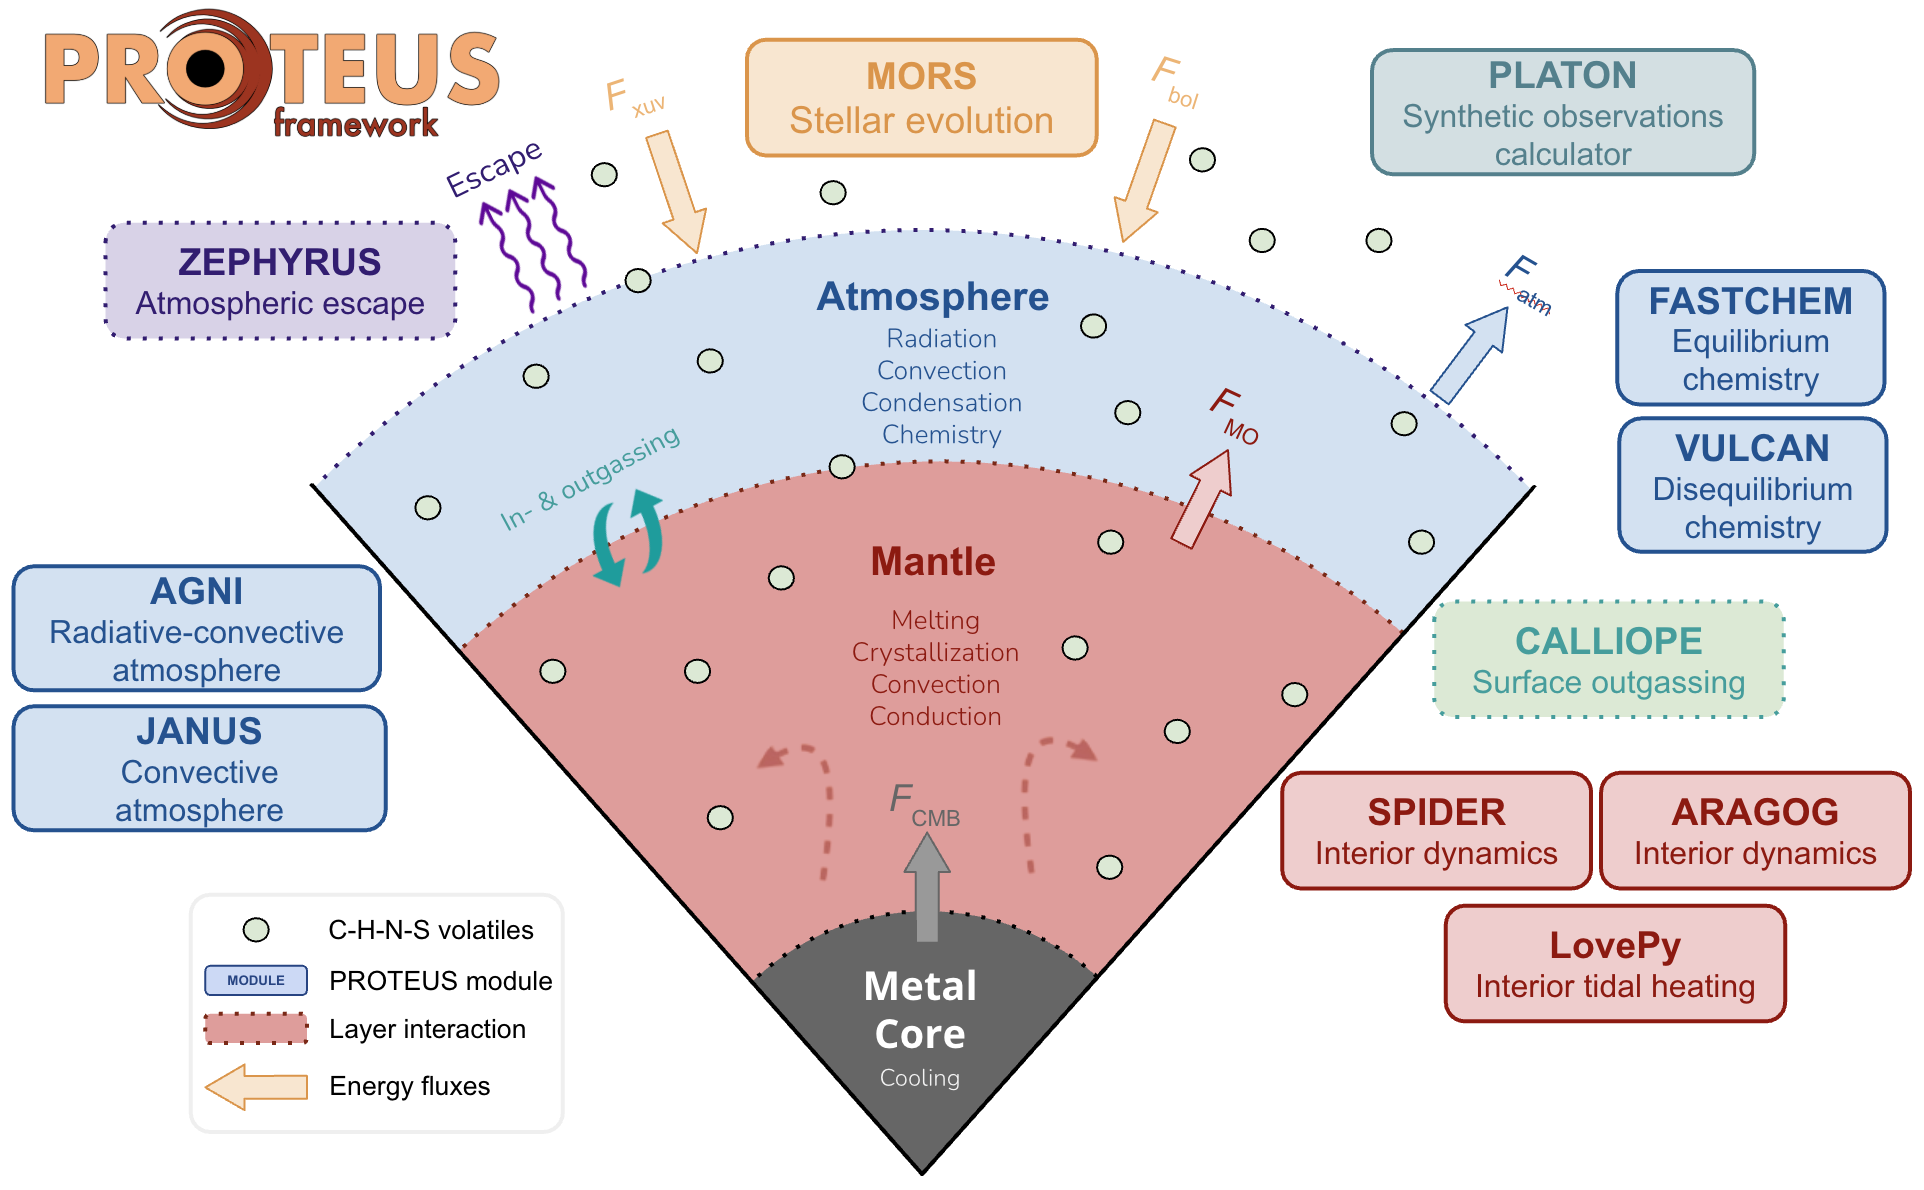
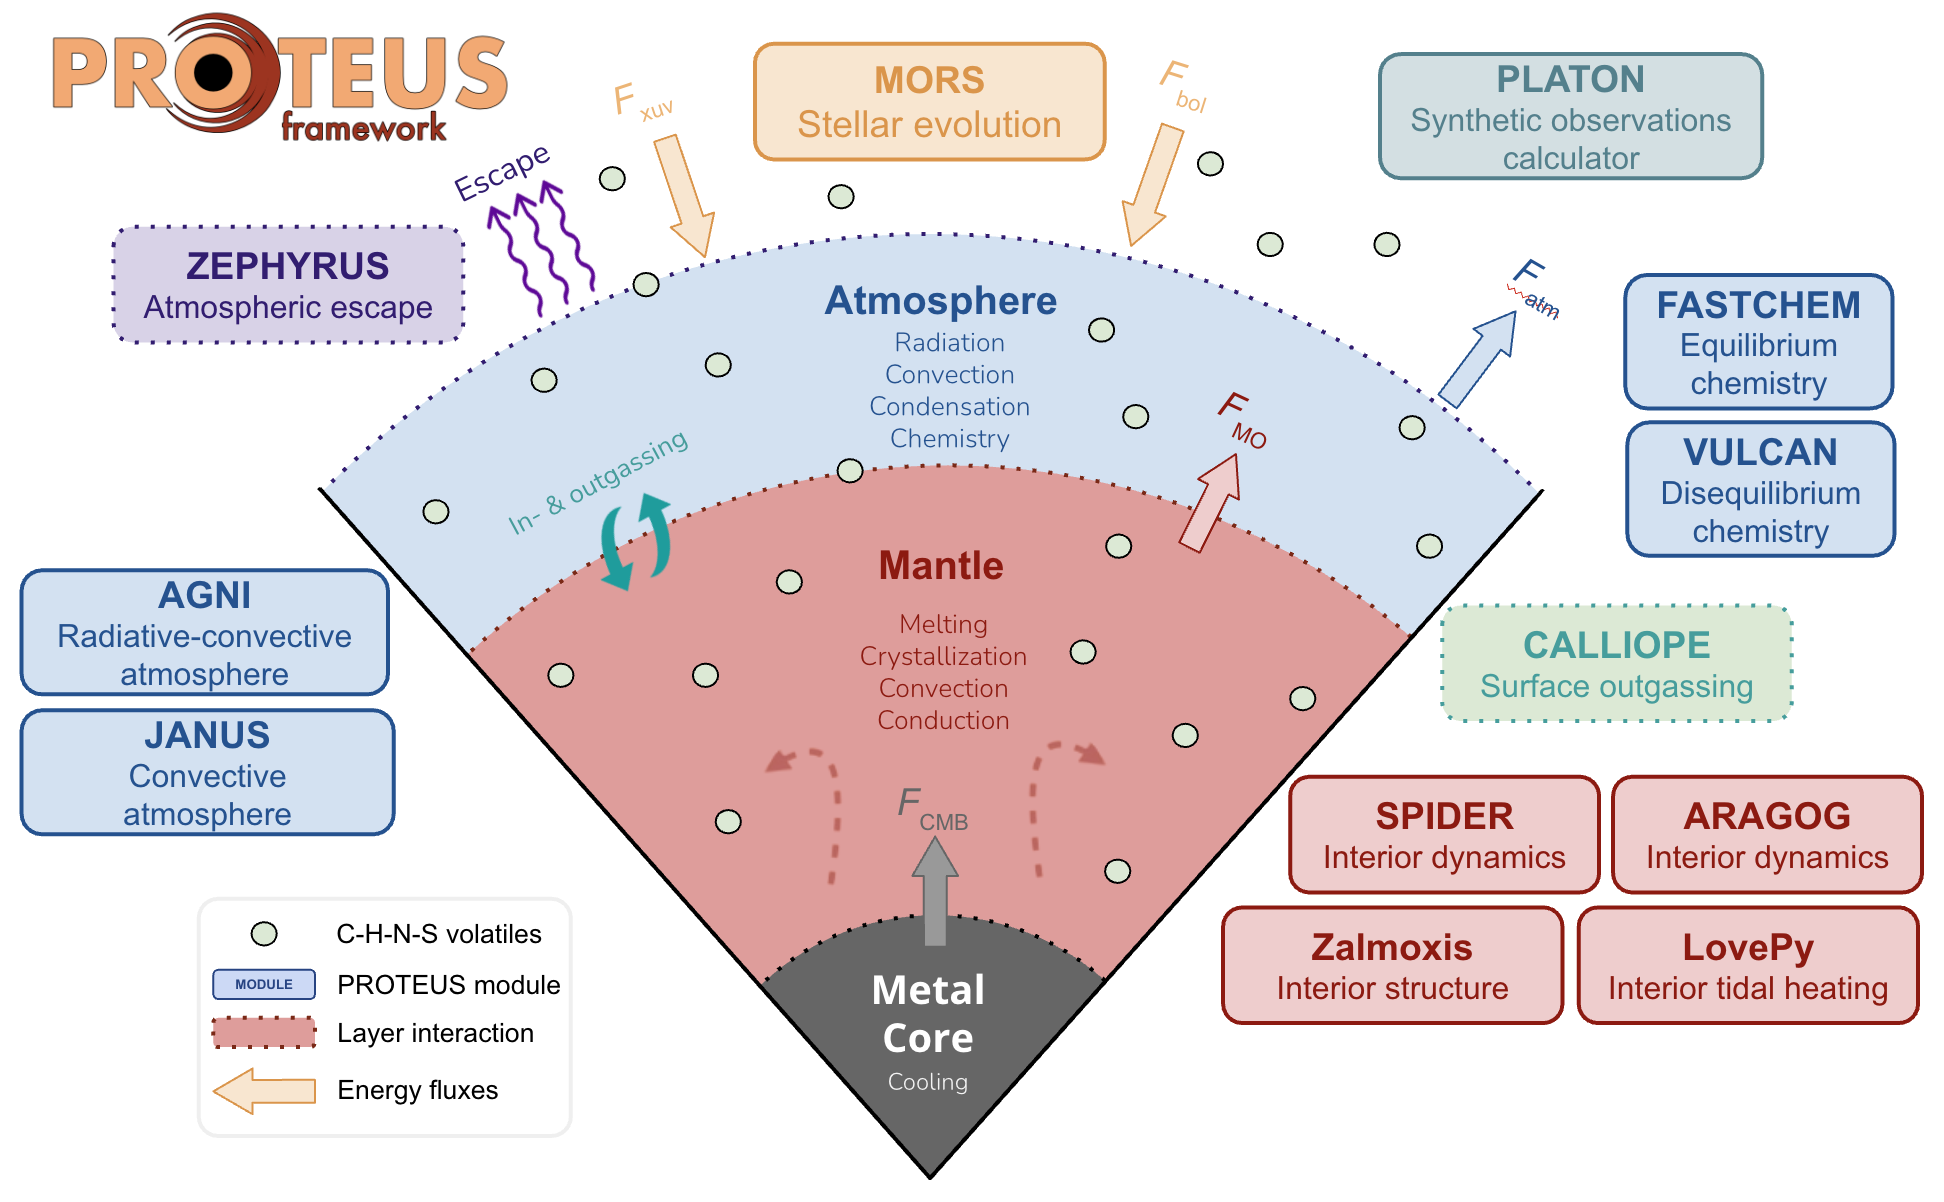
added zalmoxis

diff --git a/docs/paper/paper.md b/docs/paper/paper.md
@@ -30,7 +30,7 @@ authors:
   - name: Dan J. Bower
     orcid: 0000-0002-0673-4860
     affiliation: 4
-  - name: Flavia Pascal
+  - name: Flavia C. Pascal
     affiliation: 1
   - name: Hanno Spreeuw
     orcid: 0000-0002-5057-0322
@@ -107,6 +107,7 @@ Interior modules (i) compute the thermal and chemical evolution of the planetary
   - Aragog and SPIDER [@bower18; @sastre25], which describe the interior heat transport of partially molten planets using an entropy and a temperature formalism, respectively.
   - CALLIOPE [@bower22; @shorttle24; @nicholls25a], which describes the escape of the atmosphere to space.
   - LovePy [@hay19; @nicholls25c], which describes solid-phase tidal heating in the planetary mantle.
+  - Zalmoxis [@pascal26], which describes the interior (core and mantle) structure and gravity profile.
 
 Atmosphere modules (ii) compute the energy balance of the planetary atmosphere, including radiative transfer, atmospheric chemistry, and escape processes. These include:
 
